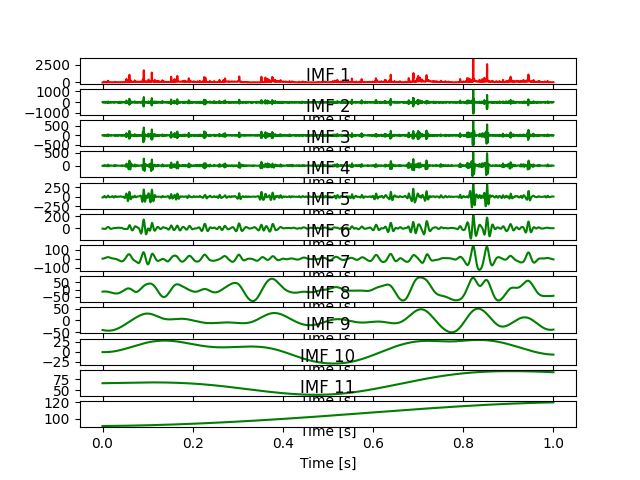
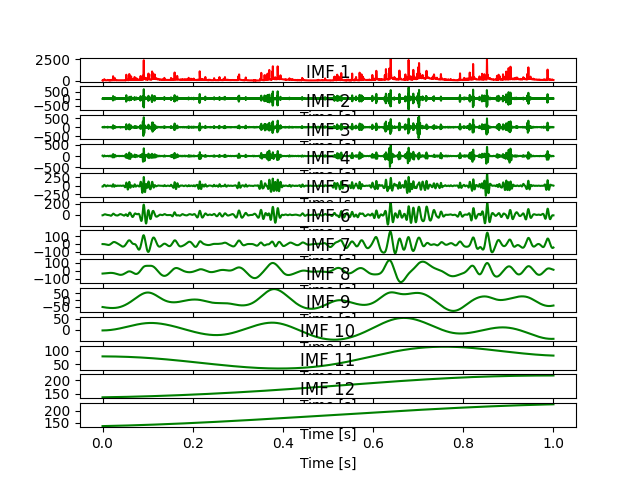
decompose

Changed region(s): [[0.0312, 0.0938, 0.9062, 0.9375], [0.1875, 0.875, 0.4062, 0.9062]]

diff --git a/plot/timeseries_plot.py b/plot/timeseries_plot.py
@@ -21,7 +21,11 @@ def sg_filter(src_timeseries):
     return filtered_timeseries
 
 
-def yige_detection(tsdata):
+def yige_detection_1(tsdata):
+    """
+    PROBAV_S10_TOC_X17Y04
+    PROBAV_S10_TOC_X21Y04
+    """
     column = tsdata.columns.values
     column = [col[1:] for col in column]
 
@@ -64,6 +68,69 @@ def yige_detection(tsdata):
         # flot
         if len(yige_locations) > 0:
             print("### YIGE @ {}".format(yige_locations))
+        # fig = plt.figure(figsize=(12, 4))
+        # plt.plot(column, src_data, color='tab:blue', label="src", linestyle='-', linewidth=1)
+        # plt.plot(column, sgfiltered_data, color='deeppink', label="s-g", linestyle='-', linewidth=1)
+        # if len(yige_locations) > 0:
+        #     locations = np.array(yige_locations, dtype=int)
+        #     plt.scatter(np.array(column)[locations], np.array(src_data)[locations],
+        #                 marker=mpl.markers.CARETUPBASE, color='tab:green', s=32, label='YG')
+        # plt.legend()
+        # plt.show()
+    # for
+    # insert one column
+    tsdata["yige"] = results_arr
+
+    # return
+    return tsdata
+
+
+def yige_detection(tsdata):
+    column = tsdata.columns.values
+    column = [col[1:] for col in column]
+
+    results_arr = []
+
+    for index, row in tsdata.iterrows():
+        src_data = row
+        yige_locations = []
+        sgfiltered_data = sg_filter(src_data)
+
+        # is grass land or not?
+        row_max = np.max(src_data)
+
+        # number of elements with value == 0
+        zero_num = np.sum(src_data<10)
+
+        if (row_max>80) and (zero_num<2):
+
+            # 计算波峰波谷, 二次差分
+            doublediff = np.diff(np.sign(np.diff(src_data)))
+            peak_locations = np.where(doublediff == -2)[0] + 1
+            doublediff = np.diff(np.sign(np.diff(-1 * src_data)))
+            trough_locations = np.where(doublediff == -2)[0] + 1
+
+            diff_data = np.diff(src_data)
+            for peak in peak_locations:
+                if (src_data[peak]<60) or (peak>27) or (peak<3):
+                    continue
+                if (peak+1) in trough_locations:
+                    if (diff_data[peak-1]<5) and (diff_data[peak]<-15) and (diff_data[peak+1]>5):
+                        yige_locations = np.append(yige_locations, peak)
+                        continue
+                if (diff_data[peak]<-35) and (peak>12) and (peak<25):
+                    yige_locations = np.append(yige_locations, peak)
+                    continue
+            # for
+        # if
+
+        # store string
+        yege_str = ','.join(str(i) for i in yige_locations)
+        results_arr = np.append(results_arr, yege_str)
+
+        # flot
+        if len(yige_locations) > 0:
+            print("### YIGE @ {} @ {}".format(index, yige_locations))
         # fig = plt.figure(figsize=(12, 4))
         # plt.plot(column, src_data, color='tab:blue', label="src", linestyle='-', linewidth=1)
         # plt.plot(column, sgfiltered_data, color='deeppink', label="s-g", linestyle='-', linewidth=1)
@@ -125,8 +192,8 @@ def main():
     print("### ", now)
     print("###########################################################")
 
-    csvdata_file = "I:/FF/application-project/2021-africagrass\PROBAV/6/PROBAV_S10_TOC_X17Y04/shp/csv/pixel_tsattri_2020.csv"
-    target_file = "I:/FF/application-project/2021-africagrass\PROBAV/6/PROBAV_S10_TOC_X17Y04/shp/csv/pixel_tsattri_2020_yige.csv"
+    csvdata_file = "I:/FF/application-project/2021-africagrass/PROBAV/6/PROBAV_S10_TOC_X21Y06/shp/csv/pixel_tsattri_2020.csv"
+    target_file = "I:/FF/application-project/2021-africagrass/PROBAV/6/PROBAV_S10_TOC_X21Y06/shp/csv/pixel_tsattri_2020_yige.csv"
 
     tsprefix_pd, tsdata_pd = read_tsdata(csvdata_file)
 

diff --git a/util/timeseries_decompose.py b/util/timeseries_decompose.py
@@ -42,26 +42,59 @@ def timeseries_decompose_stl(tsdata, period):
 
 
 def timeseries_decompose_emd(tsdata):
-    # IMFs = EMD().emd(tsdata)
-    IMFs = EEMD().eemd(tsdata)
+    IMFs = EMD().emd(tsdata)
+    # IMFs = EEMD().eemd(tsdata)
 
-    # Plot results
-    t = np.linspace(0, 1, len(tsdata))
-    N = IMFs.shape[0] + 1
+    # # Plot results
+    # t = np.linspace(0, 1, len(tsdata))
+    # N = IMFs.shape[0] + 1
+    #
+    # plt.subplot(N, 1, 1)
+    # plt.plot(t, tsdata, 'r')
+    # plt.xlabel("Time [s]")
+    #
+    # for n, imf in enumerate(IMFs):
+    #     plt.subplot(N, 1, n + 2)
+    #     plt.plot(t, imf, 'g')
+    #     plt.title("IMF " + str(n + 1))
+    #     plt.xlabel("Time [s]")
+    #
+    # plt.tight_layout()
+    # plt.savefig('simple_example')
+    # plt.show()
 
-    plt.subplot(N, 1, 1)
-    plt.plot(t, tsdata, 'r')
-    plt.xlabel("Time [s]")
+    return IMFs
 
-    for n, imf in enumerate(IMFs):
-        plt.subplot(N, 1, n + 2)
-        plt.plot(t, imf, 'g')
-        plt.title("IMF " + str(n + 1))
-        plt.xlabel("Time [s]")
 
-    plt.tight_layout()
-    plt.savefig('simple_example')
-    plt.show()
+def merge_decomposition(src_folder, tag_folder):
+
+    file_list = []
+
+    item_list = os.listdir(src_folder)
+    for item_path in item_list:
+        abs_path = os.path.join(src_folder, item_path)
+        if os.path.isfile(abs_path):
+            print(abs_path)
+            file_list.append(abs_path)
+        # if
+    # for
+    num_data = len(file_list)
+
+    # read first file for meta info
+    csvdata = pd.read_csv(file_list[0], header=None).to_numpy()
+    row, col = csvdata.shape
+
+    all_data = np.zeros((num_data, row, col))
+    for idx, path in enumerate(file_list):
+        csvdata = pd.read_csv(path, header=None).to_numpy()
+        all_data[idx] = csvdata
+    # for
+
+    all_data = all_data.transpose(1, 0, 2)
+    for idx in range(row):
+        tag_path = os.path.join(tag_folder, "compose_{}.csv".format(idx))
+        np.savetxt(tag_path, all_data[idx].T, fmt='%.4f', delimiter=',')
+    # for
 
     pass
 
@@ -69,16 +102,21 @@ def timeseries_decompose_emd(tsdata):
 def main():
     print("### Time Series Similiarity ###########################################")
 
-    tscsv_path = 'I:/FF/application_dataset/AmericanWatershed/01_shape_congaree_river/csv/flow_2012_2021/flow_2012_2021.csv'
-    matrix_path = 'I:/FF/application_dataset/AmericanWatershed/01_shape_congaree_river/csv/flow_2012_2021/corr_adj_mat.csv'
+    # tscsv_path = 'D:/flow_2012_2021.csv'
+    # csv_data = read_tsdata(tscsv_path).to_numpy()
+    #
+    # num_col = csv_data.shape[1]
+    # for idx in range(0, num_col):
+    #     tsdata = csv_data[:,idx]
+    #     imfs = timeseries_decompose_emd(tsdata)
+    #     np.savetxt("./streamflow-emd/{}_imfs.csv".format(idx), imfs, fmt='%.4f', delimiter=',')
+    # # for
 
-    csv_data = read_tsdata(tscsv_path).to_numpy()
 
-    num_col = csv_data.shape[1]
-    for idx in range(0, num_col):
-        tsdata = csv_data[:,idx]
-        timeseries_decompose_emd(tsdata)
-    # for
+    src_folder = './streamflow-emd/compose_adjust/'
+    tag_folder = './streamflow-emd/'
+
+    merge_decomposition(src_folder, tag_folder)
 
     print('### Task over!')
 

diff --git a/util/timeseries_period.py b/util/timeseries_period.py
@@ -1,0 +1,111 @@
+# -*- coding: utf-8 -*-
+
+"""
+Image operations
+
+Author: Zhou Ya'nan
+"""
+import os
+import datetime
+import argparse
+import math
+import numpy as np
+import pandas as pd
+import scipy.io as sio
+import matplotlib.pyplot as plt
+from scipy.fftpack import fft,ifft
+from scipy.signal import savgol_filter
+from statsmodels import api as sm
+
+
+def period_fft(ts_array):
+    # ts_array = savgol_filter(ts_array, window_length=7, polyorder=3)
+
+    length = len(ts_array)
+    yy = fft(ts_array)
+    yy_abs = abs(yy)
+    yy_abs_normalized = yy_abs/(length/2)
+    yy_abs_normalized_half = yy_abs_normalized[range(int(length / 2))]
+
+    # Show
+    # plt.figure(figsize=(24, 6))
+    #
+    # plt.subplot(221)
+    # plt.plot(np.arange(length), ts_array)
+    # plt.title("Original wave")
+    #
+    # plt.subplot(222)
+    # plt.plot(np.arange(len(yy)), yy_abs, 'r')
+    # plt.title("FFT or mixed wave (two sides)")
+    #
+    # plt.subplot(223)
+    # plt.plot(np.arange(len(yy)), yy_abs_normalized, 'g')
+    # plt.title("FFT or mixed wave (normalized)")
+    #
+    # plt.subplot(224)
+    # plt.plot(np.arange(len(yy_abs_normalized_half)), yy_abs_normalized_half, 'b')
+    # plt.title("FFT or mixed wave")
+    # plt.show()
+
+    return yy
+
+
+def period_acf(ts_array):
+    acf = sm.tsa.acf(ts_array, adjusted=True, nlags=len(ts_array), fft=True)
+
+    # plt.figure(figsize = (10, 8))
+    # plt.plot(range(0, len(ts_array)), acf)
+    # plt.xlim((0, 400))
+    # plt.xlabel('Lags (days)')
+    # plt.ylabel('Autocorrelation')
+    # plt.show()
+
+    return acf
+
+
+def section_stastis(ts_array2d, sections):
+
+    row, col = ts_array2d.shape
+    num_sect = len(sections)+1
+    assert((max(sections)<row) and (min(sections)>0))
+
+    section_results = np.zeros((num_sect, col))
+    sect_from = 0
+    for idx, sect in enumerate(sections):
+        sect_data = ts_array2d[sect_from:sect]
+        section_results[idx] = np.sum(sect_data, axis=0)
+        sect_from = sect
+    # for
+    section_results[-1] = np.sum(ts_array2d[sect_from:], axis=0)
+
+    return section_results
+
+
+def main():
+    print("### Time Series Similiarity ###########################################")
+
+    tscsv_path = './streamflow-emd/29_imfs.csv'
+    csvdata = pd.read_csv(tscsv_path, header=None).to_numpy()
+
+    # num_row = csvdata.shape[0]
+    # for idx in range(0, num_row):
+    #     tsdata = csvdata[idx]
+    #     acf_array = period_acf(tsdata)
+    # # for
+
+    # num_row = csvdata.shape[0]
+    # for idx in range(0, num_row):
+    #     tsdata = csvdata[idx]
+    #     fft_array = period_fft(tsdata)
+    # # for
+
+    stastis_results = section_stastis(csvdata, sections=[3, 5])
+
+    np.savetxt("./streamflow-emd/29_imfs_compose.csv", stastis_results, fmt='%.4f', delimiter=',')
+
+
+    print('### Task over!')
+
+
+if __name__ == "__main__":
+    main()

diff --git a/probav/group_folder.py b/probav/group_folder.py
@@ -42,7 +42,8 @@ def main():
 
 
     folder = "F:/application_dataset/africa_grass/s10_r1km_toc/6/PROBAV_S10_TOC_X21Y08/"
-    prefix = "PROBAV_S10_TOC_X17Y04_2017"
+    folder = 'J:/FF/application_dataset/africa_grass/PROBAV_S5_TOC_R100/'
+    prefix = "PROBAV_S5_TOC_X16Y04"
 
     group_product_folder(folder, prefix)
 
